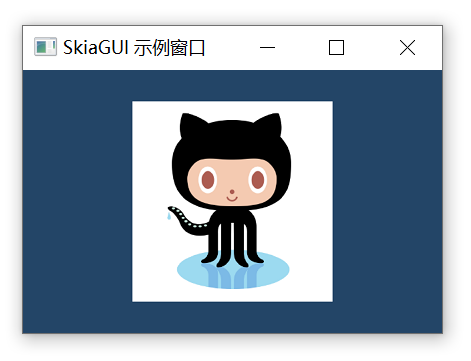
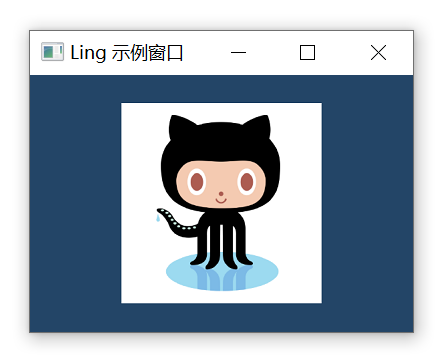
doc

diff --git a/Demo/ImageDemo.cpp b/Demo/ImageDemo.cpp
@@ -8,7 +8,7 @@ ImageDemo::ImageDemo()
 {
     //win = std::make_unique<WindowFrameless>();
     win = std::make_unique<WindowNormal>();
-    win->setTitle(L"SkiaGUI 示例窗口");
+    win->setTitle(L"Ling 示例窗口");
     win->setWindowSize(1000, 800);
     win->setWindowToScreenCenter();
     win->setBackgroundColor(0x234567FF);
@@ -51,7 +51,7 @@ void ImageDemo::svg()
 {
     auto ele = std::make_shared<Image>();
     ele->setSrc(L"img.svg");
-    ele->setSize(360, 360);
+    ele->setSize(260, 260);
     win->setAlignItems(Align::Center);
     win->setJustifyContent(Justify::Center);
     win->addChild(ele);

diff --git a/Demo/IrregularWindow.cpp b/Demo/IrregularWindow.cpp
@@ -7,7 +7,7 @@ IrregularWindow::IrregularWindow()
 {
     win = std::make_unique<WindowLayered>();
     //win = std::make_unique<WindowNormal>();
-    win->setTitle(L"SkiaGUI 示例窗口");
+    win->setTitle(L"Ling 示例窗口");
     win->setWindowSize(800, 800);
     win->setWindowToScreenCenter();
     //win->setBackgroundColor(0x00000000);

diff --git a/Demo/LayoutDemo.cpp b/Demo/LayoutDemo.cpp
@@ -7,7 +7,7 @@ LayoutDemo::LayoutDemo()
 {
     win = std::make_unique<WindowFrameless>();
     //win = std::make_unique<WindowNormal>();
-    win->setTitle(L"SkiaGUI 示例窗口");
+    win->setTitle(L"Ling 示例窗口");
     win->setWindowSize(1000, 800);
     win->setWindowToScreenCenter();
     win->setBackgroundColor(0x234567FF);

diff --git a/Demo/InputDemo.cpp b/Demo/InputDemo.cpp
@@ -7,7 +7,7 @@
 InputDemo::InputDemo()
 {
     win = std::make_unique<WindowNormal>();
-    win->setTitle(L"SkiaGUI 示例窗口");
+    win->setTitle(L"Ling 示例窗口");
     win->setWindowSize(1000, 800);
     win->setWindowToScreenCenter();
     win->setBackgroundColor(0xFFFFFFFF);

diff --git a/README.md b/README.md
@@ -5,10 +5,10 @@ A GUI Framework for modern C++
 # 目标
 
 - 编译产物体积尽可能小；
-- 功能尽可能多；
 - 内存占用尽可能少；
 - 性能尽可能好；
 - 使用尽可能简单；
+- 功能尽可能多；
 
 # 编译产物大小
 
@@ -172,8 +172,6 @@ win->addChild(ele);
 
 ![](Doc/TextClear.png "文本清晰度对比")
 
-![](Doc/CenterText.png "一段文本，在窗口中水平垂直居中")
-
 
 
 ```c++
@@ -198,20 +196,26 @@ for (auto& iconCode:arr)
     win->addChild(ele);
 }
 ```
-![](Doc/icon.png "一段文本，在窗口中水平垂直居中")
+![](Doc/icon.png "字体图标")
 
 # 图像
 
 ```c++
 auto ele = std::make_shared<Image>();
 ele->setSize(200, 200);
-ele->setSrc(L"img.png");
+ele->setSrc(L"img.png"); 
 win->setAlignItems(Align::Center);
 win->setJustifyContent(Justify::Center);
 win->addChild(ele);
 ```
+- png jpeg jpg webp
 
-![](Doc/image.png "一段文本，在窗口中水平垂直居中")
+![](Doc/image.png "图像")
+
+- svg
+
+![](Doc/svg.png "图像")
+
 
 # Warning
 
